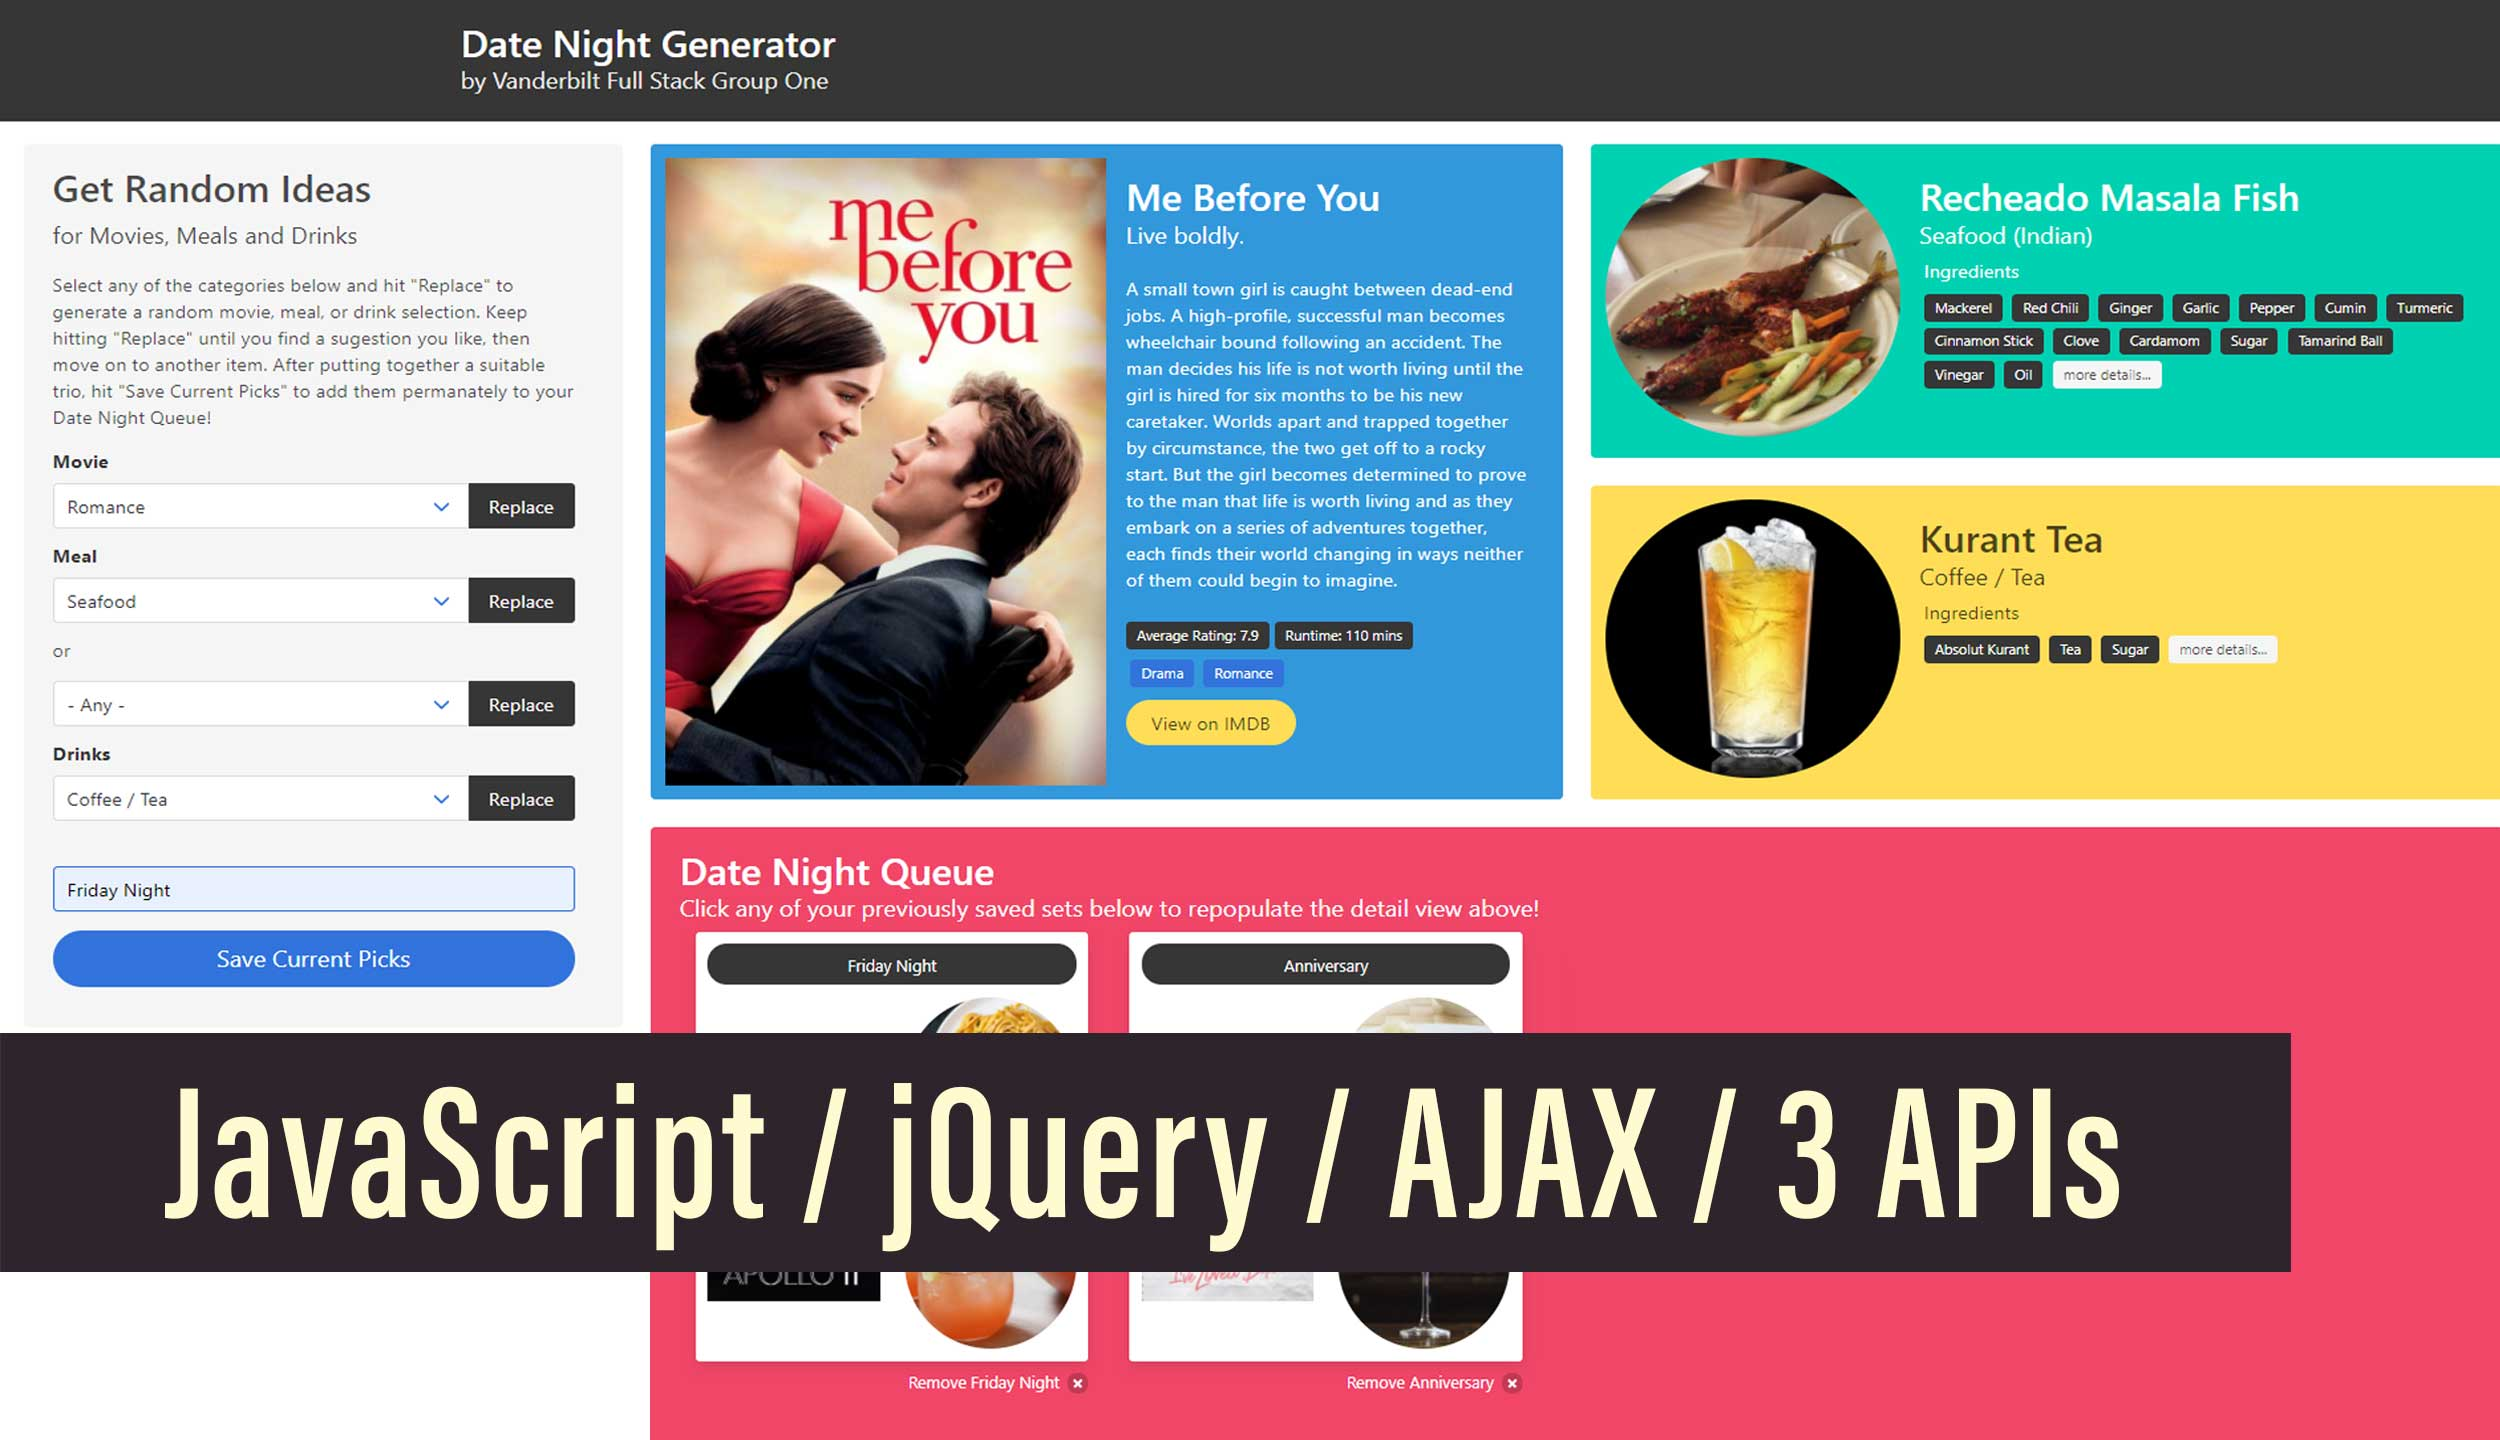
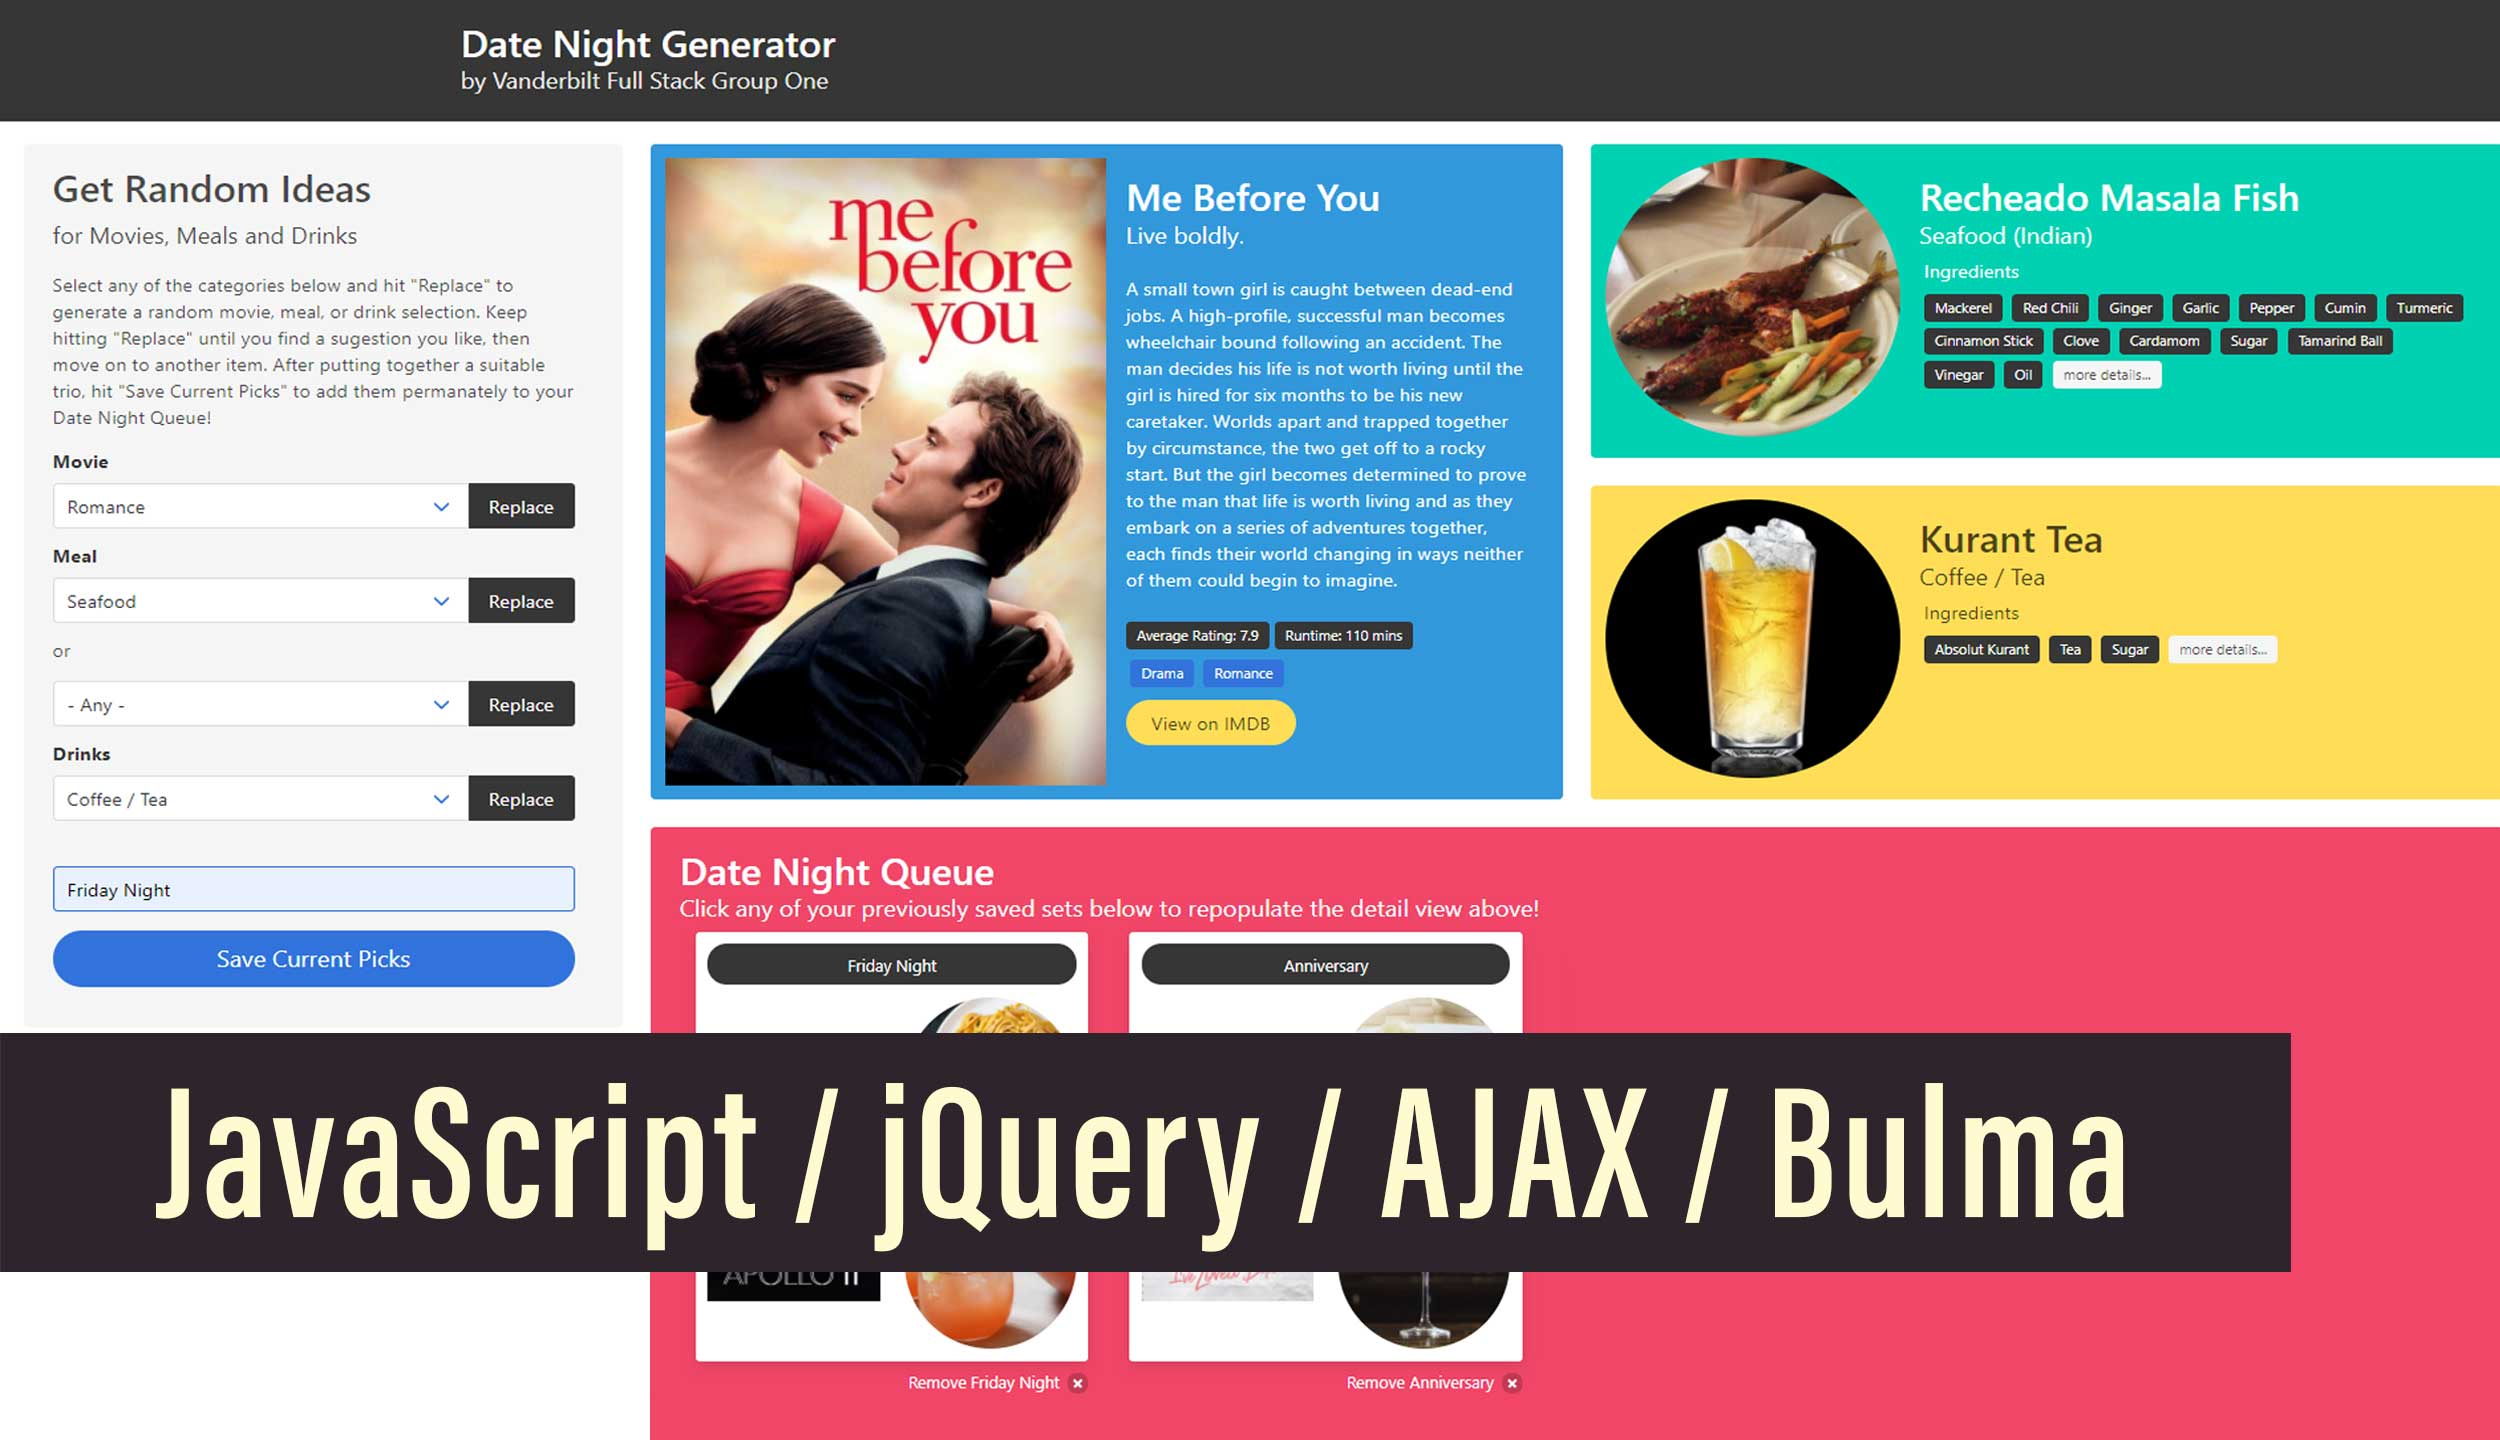
date-night description

Changed region(s): [[0.0624, 0.75, 0.8736, 0.875]]

diff --git a/index.html b/index.html
@@ -84,7 +84,7 @@
                 <p>
                   <span>Date Night Generator</span>
                   </br>
-                  Conceptualized, designed and created an application to assist couples in planning a date-night. Built using 3 seperate APIs, AJAX, JavaScript, JSON and jQuery.
+                  Conceptualized, designed and created an application to assist couples in planning a date-night. Built using Bulma, 3 seperate APIs, AJAX, JavaScript, JSON and jQuery.
                   </br></br>
                   <a href="https://jscottrumptz.github.io/date-night-generator/" class="button" target="_blank">CHECK IT OUT!</a>
                 </p>
